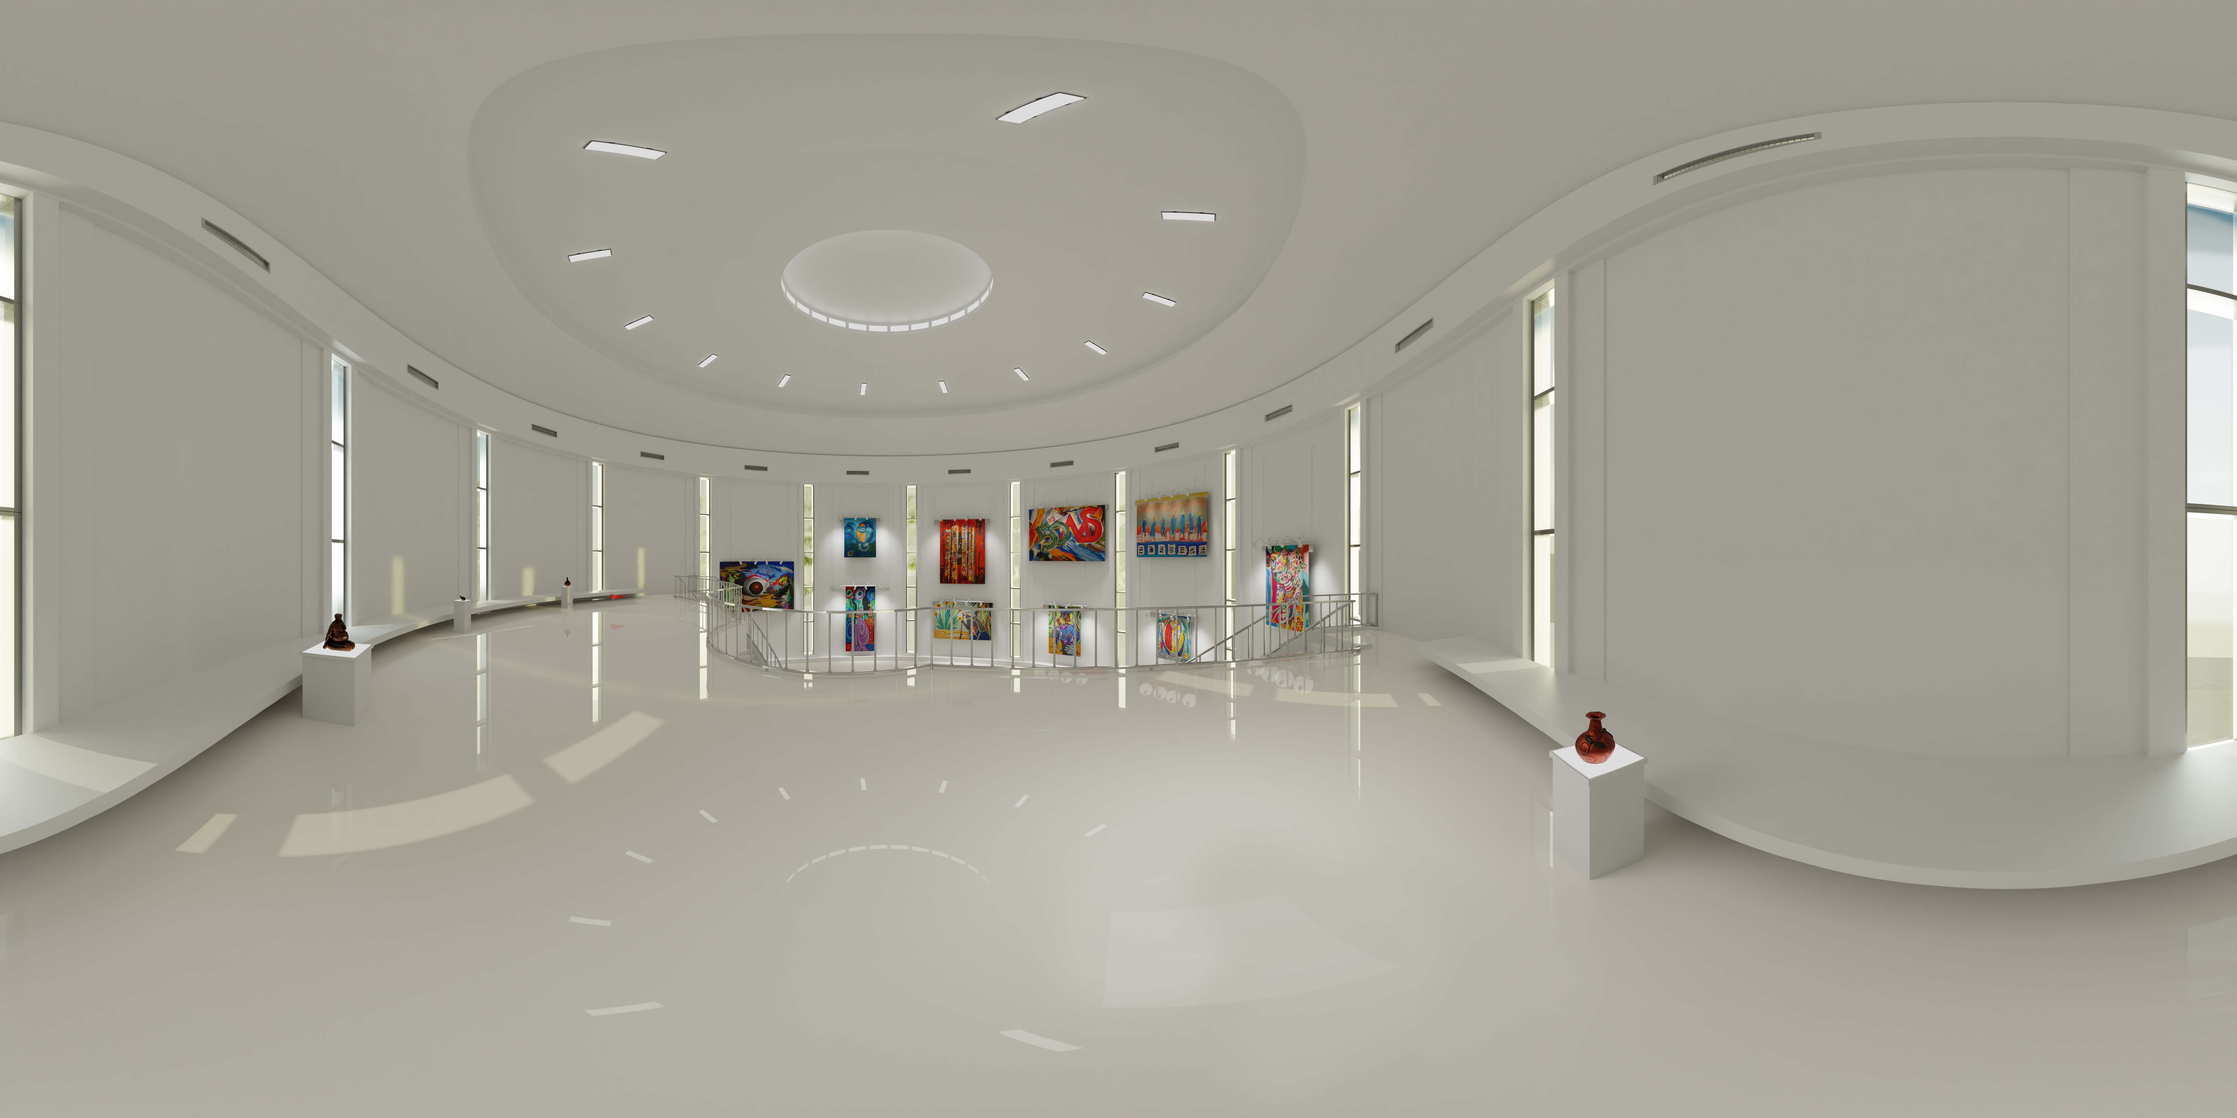
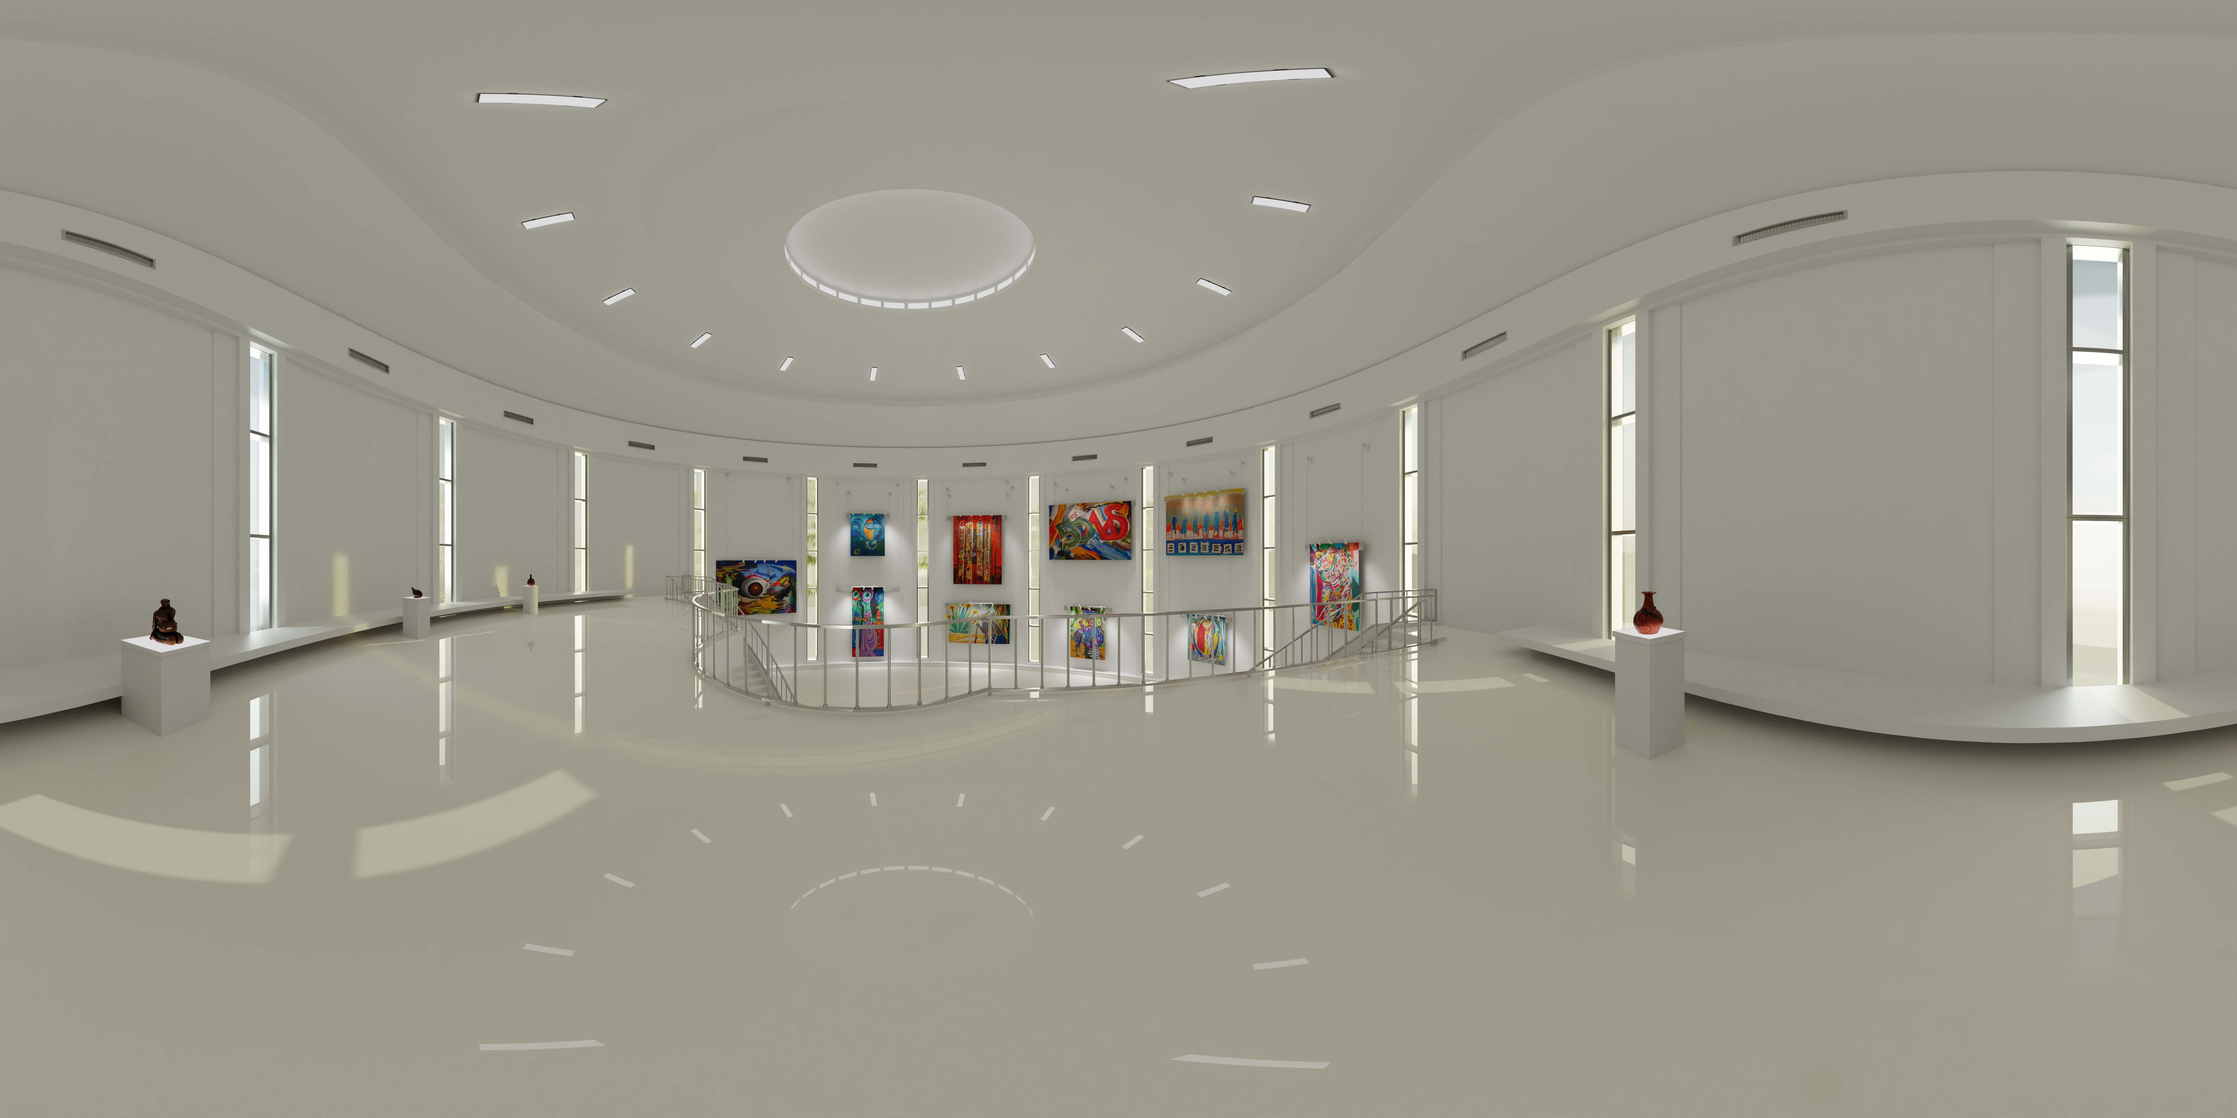
Controls Test-1

diff --git a/index.html b/index.html
@@ -227,9 +227,8 @@
         <!-- ############################################################ -->
         <!-- ############################################################ -->
         <!-- ############################################################ -->
-
         <!-- Group-1. -->
-        <a-entity scale=" 1 1 1" class="groups" id="Group-1" visible="true">
+        <a-entity scale="1 1 1" class="groups" id="Group-1" visible="true">
 
             <a-entity raycaster="objects: [data-clickable]" scale=" 0.9 0.9 0.9" class="Dote" template="src: #plane"
                 data-src="#Scene-2" data-thumb="#Arrow-1" position="0 -1 6" rotation="-151.5 8.6 173"
@@ -249,7 +248,7 @@
 
             <a-entity raycaster="objects: [data-clickable]" scale=" 0.9 0.9 0.9" class="Dote" template="src: #plane"
                 data-src="#Scene-5" data-thumb="#Arrow-1" position="5.7 -1 2.4" rotation="-64.3 -145 -11.6"
-                the_dote="Name_of_dote: Dote-4 ; Group_to_activate: Group-5">
+                the_dote="Name_of_dote: Dote-5 ; Group_to_activate: Group-5">
             </a-entity>
 
         </a-entity>
@@ -295,19 +294,18 @@
 
         <!-- Group-5 -->
         <a-entity scale="0 0 0" class="groups" id="Group-5" visible="false">
+
             <a-entity scale=" 1 1 1" class="Dote" template="src: #plane" data-src="#Scene-4" data-thumb="#Arrow-1"
                 position="0 -1 -8" rotation="0 0 0" the_dote="Name_of_dote: Dote-4 ; Group_to_activate: Group-4">
             </a-entity>
 
             <a-entity scale=" 1 1 1" class="Dote" template="src: #plane" data-src="#Scene-1" data-thumb="#Arrow-1"
-                position="-7 -1 6.5" rotation="-110 -100 180"
+                position="-6 -1 9" rotation="-110 -100 180"
                 the_dote="Name_of_dote: Dote-1 ; Group_to_activate: Group-1">
             </a-entity>
 
 
         </a-entity>
-
-
         <!-- ############################################################ -->
         <!-- ############################################################ -->
         <!-- ############################################################ -->
@@ -418,7 +416,6 @@
             </a-entity>
         </a-entity>
         <!-- ############################################################ -->
-
         <a-entity scale="0 0 0 " class="big-pintings-containers" id="big-pintings-containers-2" position="50 15 -60"
             visible="false">
 
@@ -634,6 +631,220 @@
 
             </a-entity>
         </a-entity>
+        <!-- ############################################################ -->
+        <a-entity scale="0 0 0" class="big-pintings-containers" id="big-pintings-containers-4" visible="false">
+
+            <!-- Row-0 -->
+            <a-entity position="0 0 0" rotation="0 147.5 0" class="pintings-containers" id="pinting-container-0">
+
+                <a-plane scale="110 70 0" class="pintings" rotation="0 20 0" position="-0 -32 -400" color="#000"
+                    the_pintings="Pinting_Name : GUISS GUISS ;
+                                                    Pinting_Picture:./Style/Images/Tableaux/guis-guis.jpg;
+                                                    Autor_Name :Amicale des étudiants des MSAD ;
+                                                    Size :2.92/4.48;
+                                                    Price : 17.004 000 francs (26160 € )">
+                </a-plane>
+
+            </a-entity>
+
+            <!-- Row-1 -->
+            <a-entity position="0 0 0" rotation="0 130.5 0" class="pintings-containers" id="pinting-container-1">
+
+                <a-plane scale="50 65 0" class="pintings" rotation="0 5 0" position="-0 30 -400" color="#000"
+                    the_pintings="Pinting_Name :Femme Peulh ;
+                                                    Pinting_Picture: ./Style/Images/Tableaux/femme-peulh.jpg ;
+                                                    Autor_Name :Mamadou Wade;
+                                                    Size :2/1.62;
+                                                    Price : 4.212 000 francs (6480 € )">
+                </a-plane>
+
+                <a-plane scale="45 90 0" class="pintings" rotation="0 5 0" position="-0 -74 -400" color="#000"
+                    the_pintings="Pinting_Name :Tangouna Mbaar;
+                                                Pinting_Picture: ./Style/Images/Tableaux/Tangouna-mbar.jpg ;
+                                                Autor_Name :Ousmane Sy;
+                                                Size :3.04/1.50;
+                                                Price : 5.928 000 francs (9120 €)">
+                </a-plane>
+
+            </a-entity>
+
+            <!-- Row-2 -->
+            <a-entity position="0 0 0" rotation="0 112.5 0" class="pintings-containers" id="pinting-container-2">
+                <a-plane scale="86 50 0" class="pintings" rotation="0 0 0" position="-0 -75 -400" color="#000"
+                    the_pintings="Pinting_Name :Le Maitre Du Bois Sacré;
+                                                Pinting_Picture: ./Style/Images/Tableaux/maitre-du-bois-saccre.jpg;
+                                                Autor_Name :ANSOUMANA DIEDHIOU;
+                                                Size : 1.9/2.97; 
+                                                                    Price : 6.799 000 francs (10460 € ) ">
+                </a-plane>
+
+                <a-plane scale="60 80 0" class="pintings" rotation="0 0 0" position="-0 13 -370" color="#000"
+                    the_pintings="Pinting_Name :JOMBAJO;
+                                                    Pinting_Picture: ./Style/Images/Tableaux/Jombojo.jpg;
+                                                    Autor_Name :KALIDOU KASSE;
+                                                    Size :3.23/2.28;
+                                                    Price : 9.568 000 francs (14720 €)">
+                </a-plane>
+            </a-entity>
+
+            <!-- Row-3 -->
+            <a-entity position=" 0 0 0" rotation="0 95 0" class="pintings-containers" id="pinting-container-2">
+                <a-plane scale="46 73 0" class="pintings" rotation="0 -7 0" position="-0 -82 -400" color="#000"
+                    the_pintings="Pinting_Name : Diala Ndama;
+                                                    Pinting_Picture: ./Style/Images/Tableaux/diala-ndama.jpg;
+                                                    Autor_Name :ALASSANE.M.DIOP;
+                                                    Size : 2.33/1.60;
+                                                    Price : 5.109 000 francs (7860 €)">
+                </a-plane>
+
+                <a-plane scale="75 53 0" class="pintings" rotation="0 -7 -0" position="0 23 -300" color="#000"
+                    the_pintings="Pinting_Name :Cinquantenaire;
+                                                    Pinting_Picture: ./Style/Images/Tableaux/cinquantenaire.jpg;
+                                                    Autor_Name :MSAD;
+                                                    Size : 2.43/3.37;
+                                                    Price : 10.660 000 francs (16400 €)">
+                </a-plane>
+            </a-entity>
+
+            <!-- Row-4 -->
+            <a-entity position=" 0 0 0" rotation="0 76 0" class="pintings-containers" id="pinting-container-2">
+                <a-plane scale="50 60 0" class="pintings" rotation="0 -22 0" position="-0 -90 -400" color="#000"
+                    the_pintings="Pinting_Name :Le Chant des Tirailleurs Sénégalais;
+                                                    Pinting_Picture: ./Style/Images/Tableaux/NABOULE.jpg;
+                                                    Autor_Name :Sény Gadiaga;
+                                                    Size : 2.36/3.34;
+                                                    Price : 10.257 000 francs (15780 €)">
+                </a-plane>
+
+                <a-plane scale="70 50 0" class="pintings" rotation="0 -22 0" position="-0 24 -250" color="#000"
+                    the_pintings="Pinting_Name :Le Chant des Tirailleurs Sénégalais;
+                                                    Pinting_Picture: ./Style/Images/Tableaux/le-champ-des-tiraileur.jpg;
+                                                    Autor_Name :Sény Gadiaga;
+                                                    Size : 2.36/3.34;
+                                                    Price : 10.257 000 francs (15780 € )">
+                </a-plane>
+            </a-entity>
+
+            <!-- Row-5 -->
+            <a-entity position="0 0 0" rotation="0 55 0" class="pintings-containers" id="pinting-container-2">
+
+                <a-plane scale="65 85 0" class="pintings" rotation="0 -30 0" position="-0 -27 -350" color="#000"
+                    the_pintings="Pinting_Name :Tefess;
+                                                    Pinting_Picture: ./Style/Images/Tableaux/tevess.jpg;
+                                                    Autor_Name :Mamadou Gaye;
+                                                    Size : 2.04/1.84;
+                                                    Price : 4.875 000 francs (7500 €)">
+                </a-plane>
+
+            </a-entity>
+        </a-entity>
+        <!-- ############################################################ -->
+        <a-entity scale="0 0 0" class="big-pintings-containers" id="big-pintings-containers-5" visible="false">
+
+            <!-- Row-0 -->
+            <a-entity position="0 0 0" rotation="0 125 0" class="pintings-containers" id="pinting-container-0">
+
+                <a-plane scale="140 100 0" class="pintings" rotation="0 20 0" position="-0 -47 -400" color="#000"
+                    the_pintings="Pinting_Name : GUISS GUISS ;
+                                         Pinting_Picture:./Style/Images/Tableaux/guis-guis.jpg;
+                                          Autor_Name :Amicale des étudiants des MSAD ;
+                                           Size :2.92/4.48;
+                                            Price : 17.004 000 francs (26160 € )">
+                </a-plane>
+
+            </a-entity>
+
+            <!-- Row-1 -->
+            <a-entity position="0 0 0" rotation="0 104 0" class="pintings-containers" id="pinting-container-1">
+
+                <a-plane scale="60 80 0" class="pintings" rotation="0 5 0" position="-0 30 -400" color="#000"
+                    the_pintings="Pinting_Name :Femme Peulh ;
+                                         Pinting_Picture: ./Style/Images/Tableaux/femme-peulh.jpg ;
+                                          Autor_Name :Mamadou Wade;
+                                           Size :2/1.62;
+                                           Price : 4.212 000 francs (6480 € )">
+                </a-plane>
+
+                <a-plane scale="60 90 0" class="pintings" rotation="0 5 0" position="-0 -85 -400" color="#000"
+                    the_pintings="Pinting_Name :Tangouna Mbaar;
+                                    Pinting_Picture: ./Style/Images/Tableaux/Tangouna-mbar.jpg ;
+                                        Autor_Name :Ousmane Sy;
+                                        Size :3.04/1.50;
+                                        Price : 5.928 000 francs (9120 €)">
+                </a-plane>
+
+            </a-entity>
+
+            <!-- Row-2 -->
+            <a-entity position="0 0 0" rotation="0 85 0" class="pintings-containers" id="pinting-container-2">
+                <a-plane scale="86 50 0" class="pintings" rotation="0 20 0" position="-0 -80 -400" color="#000"
+                    the_pintings="Pinting_Name :Le Maitre Du Bois Sacré;
+                                    Pinting_Picture: ./Style/Images/Tableaux/maitre-du-bois-saccre.jpg;
+                                    Autor_Name :ANSOUMANA DIEDHIOU;
+                                    Size : 1.9/2.97; 
+                                                        Price : 6.799 000 francs (10460 € ) ">
+                </a-plane>
+
+                <a-plane scale="60 80 0" class="pintings" rotation="0 20 0" position="-0 13 -370" color="#000"
+                    the_pintings="Pinting_Name :JOMBAJO;
+                                        Pinting_Picture: ./Style/Images/Tableaux/Jombojo.jpg;
+                                        Autor_Name :KALIDOU KASSE;
+                                        Size :3.23/2.28;
+                                        Price : 9.568 000 francs (14720 €)">
+                </a-plane>
+            </a-entity>
+
+            <!-- Row-3 -->
+            <a-entity position=" 0 0 0" rotation="0 67.5 0" class="pintings-containers" id="pinting-container-2">
+                <a-plane scale="46 70 0" class="pintings" rotation="0 -0 0" position="-0 -74 -400" color="#000"
+                    the_pintings="Pinting_Name : Diala Ndama;
+                                        Pinting_Picture: ./Style/Images/Tableaux/diala-ndama.jpg;
+                                        Autor_Name :ALASSANE.M.DIOP;
+                                        Size : 2.33/1.60;
+                                        Price : 5.109 000 francs (7860 €)">
+                </a-plane>
+
+                <a-plane scale="70 50 0" class="pintings" rotation="0 -0 -0" position="0 23 -300" color="#000"
+                    the_pintings="Pinting_Name :Cinquantenaire;
+                                        Pinting_Picture: ./Style/Images/Tableaux/cinquantenaire.jpg;
+                                        Autor_Name :MSAD;
+                                        Size : 2.43/3.37;
+                                        Price : 10.660 000 francs (16400 €)">
+                </a-plane>
+            </a-entity>
+
+            <!-- Row-4 -->
+            <a-entity position=" 0 0 0" rotation="0 49.5 0" class="pintings-containers" id="pinting-container-2">
+                <a-plane scale="50 60 0" class="pintings" rotation="0 0 0" position="-0 -70 -400" color="#000"
+                    the_pintings="Pinting_Name :Le Chant des Tirailleurs Sénégalais;
+                                        Pinting_Picture: ./Style/Images/Tableaux/NABOULE.jpg;
+                                        Autor_Name :Sény Gadiaga;
+                                        Size : 2.36/3.34;
+                                        Price : 10.257 000 francs (15780 €)">
+                </a-plane>
+
+                <a-plane scale="70 50 0" class="pintings" rotation="0 6 0" position="-0 20 -270" color="#000"
+                    the_pintings="Pinting_Name :Le Chant des Tirailleurs Sénégalais;
+                                        Pinting_Picture: ./Style/Images/Tableaux/le-champ-des-tiraileur.jpg;
+                                        Autor_Name :Sény Gadiaga;
+                                        Size : 2.36/3.34;
+                                        Price : 10.257 000 francs (15780 € )">
+                </a-plane>
+            </a-entity>
+
+            <!-- Row-5 -->
+            <a-entity position="0 0 0" rotation="0 32 0" class="pintings-containers" id="pinting-container-2">
+
+                <a-plane scale="65 65 0" class="pintings" rotation="0 -30 0" position="-0 -17 -350" color="#000"
+                    the_pintings="Pinting_Name :Tefess;
+                                        Pinting_Picture: ./Style/Images/Tableaux/tevess.jpg;
+                                        Autor_Name :Mamadou Gaye;
+                                        Size : 2.04/1.84;
+                                        Price : 4.875 000 francs (7500 €)">
+                </a-plane>
+
+            </a-entity>
+        </a-entity>
     </a-scene>
     <!-- <script src="./App.js"></script> -->
     <script>
@@ -670,6 +881,7 @@
                         element.setAttribute('visible', 'false')
                         element.setAttribute('scale', '0 0 0')
                     });
+
                     switch (Dote_Name) {
                         case 'Dote-1':
                             big_pintings_containers[0].setAttribute('visible', 'true')
@@ -678,26 +890,34 @@
                         case 'Dote-2':
                             big_pintings_containers[1].setAttribute('visible', 'true')
                             big_pintings_containers[1].setAttribute('scale', '1 1 1')
-                            // console.log('######2');
                             break;
                         case 'Dote-3':
                             big_pintings_containers[2].setAttribute('visible', 'true')
                             big_pintings_containers[2].setAttribute('scale', '1 1 1')
                             break;
+                        case 'Dote-4':
+                            big_pintings_containers[3].setAttribute('visible', 'true')
+                            big_pintings_containers[3].setAttribute('scale', '1 1 1')
+                            break;
+                        case 'Dote-5':
+                            big_pintings_containers[4].setAttribute('visible', 'true')
+                            big_pintings_containers[4].setAttribute('scale', '1 1 1')
+                            break;
                         default:
                             console.log('#####nimp');
                             break;
                     }
+                    let the_group_to_activate = document.querySelector(`#${Group_to_activate}`)
 
                     groups.forEach(group => {
                         group.setAttribute('visible', 'false')
                         group.setAttribute('scale', '0 0 0')
                     });
+                    // setTimeout(() => {
+                    the_group_to_activate.setAttribute('visible', 'true')
+                    the_group_to_activate.setAttribute('scale', '1 1 1')
+                    // }, 300);
 
-                    let the_to_group_to_activate = document.querySelector(`#${Group_to_activate}`)
-                    console.log(the_to_group_to_activate);
-                    the_to_group_to_activate.setAttribute('visible', 'true')
-                    the_to_group_to_activate.setAttribute('scale', '1 1 1')
                     console.log('####################');
 
                 });
@@ -739,15 +959,15 @@
                 this.el.addEventListener('click', function () {
                     console.log(The_Picture);
                     // console.log(The_Name);
+                    // the_art_picture.setAttribute("src", ``)
                     the_art_title.innerHTML = The_Name
                     the_art_author.innerHTML = `par:${The_Author}`
                     the_art_price.innerHTML = The_Price
                     the_art_size.innerHTML = The_Size
                     the_crad_container.style.display = 'flex'
+                    the_art_picture.setAttribute("src", `${The_Picture}`)
 
-                    setTimeout(() => {
-                        the_art_picture.setAttribute("src", `${The_Picture}`)
-                    }, 300);
+
 
                     // the_art_picture.style.backgroundImage = `url('./Images/Tableaux/cinquantenaire.jpg')`
                     // console.log(the_art_picture.style);
